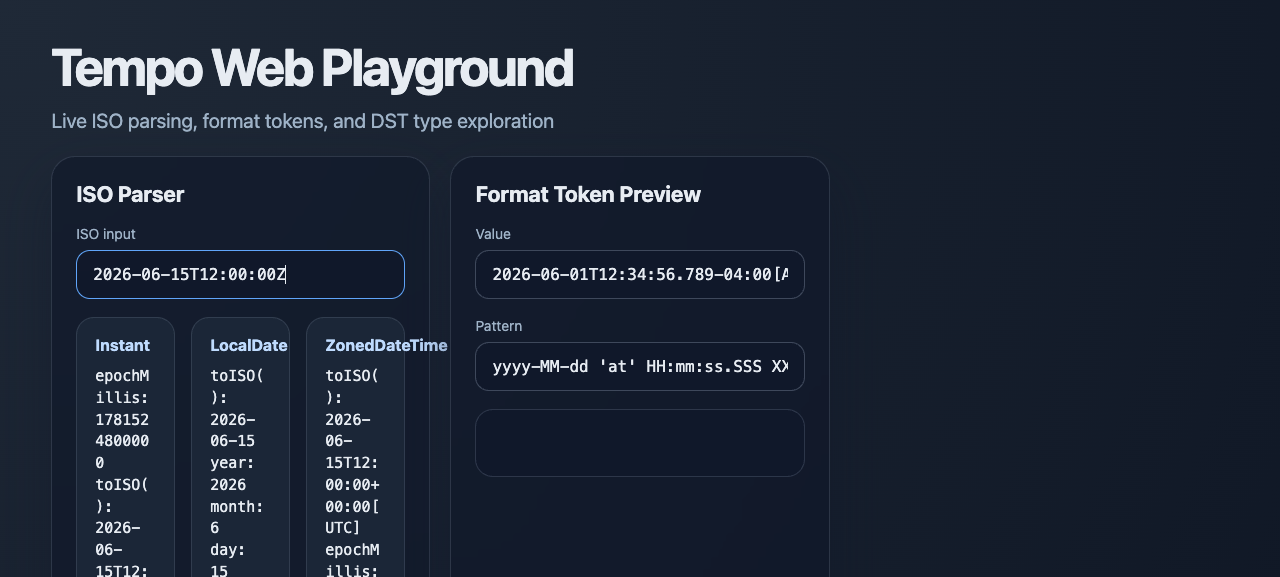
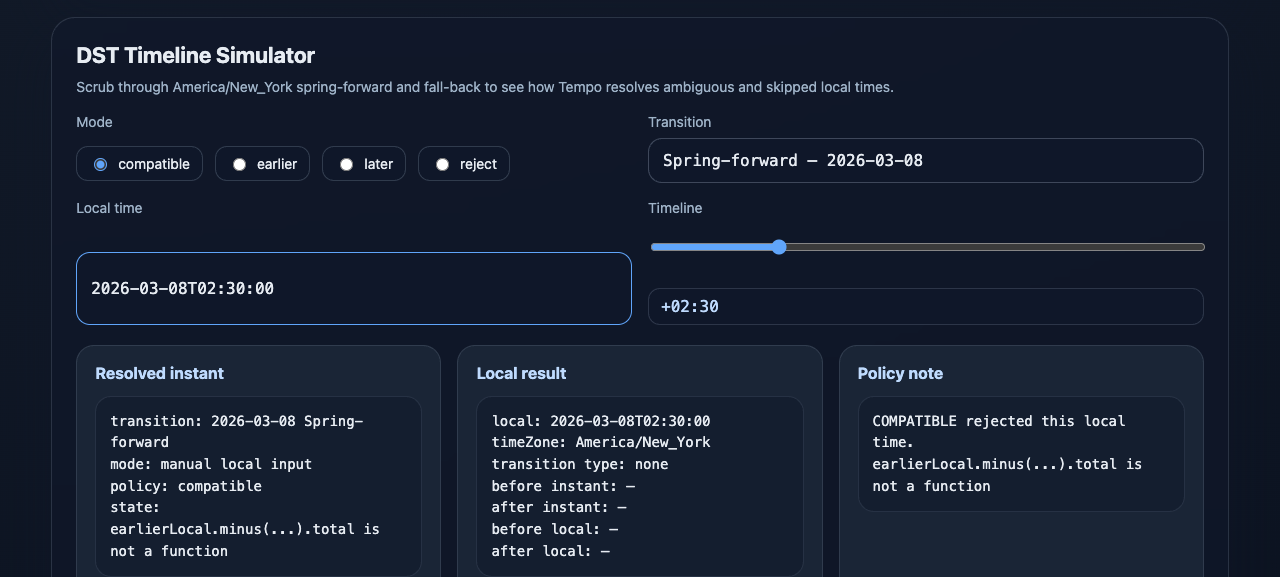
fix(demo): resolve interactive showcase scrutiny round-2 defects

diff --git a/demo/src/dst-simulator.ts b/demo/src/dst-simulator.ts
@@ -64,9 +64,11 @@ function resolveWithPolicy(local: LocalDateTime, policy: Disambiguation) {
     return { resolved: earlier, earlier, later };
   }
 
-  const earlierLocalShift = earlier.toLocalDateTime().minus(local).total('minute');
-  const laterLocalShift = later.toLocalDateTime().minus(local).total('minute');
-  const isLocalShiftForward = laterLocalShift > 0 && earlierLocalShift < 0;
+  const earlierLocal = earlier.toLocalDateTime();
+  const laterLocal = later.toLocalDateTime();
+  const earlierShift = earlierLocal.minus(local).total('minute');
+  const laterShift = laterLocal.minus(local).total('minute');
+  const isLocalShiftForward = laterShift > 0 && earlierShift < 0;
 
   if (policy === 'earlier') {
     return { resolved: earlier, earlier, later };
@@ -78,6 +80,47 @@ function resolveWithPolicy(local: LocalDateTime, policy: Disambiguation) {
 
   const compatible = isLocalShiftForward ? later : earlier;
   return { resolved: compatible, earlier, later };
+}
+
+function resolveTransitionBoundaries(local: LocalDateTime, policy: Disambiguation) {
+  const earlier = ZonedDateTime.fromLocal(local, 'America/New_York', { disambiguation: 'earlier' });
+  const later = ZonedDateTime.fromLocal(local, 'America/New_York', { disambiguation: 'later' });
+
+  if (!earlier || !later || earlier.epochMillis === later.epochMillis) {
+    return {
+      instantNumber: null,
+      beforeInstant: null,
+      afterInstant: null,
+      beforeLocal: null,
+      afterLocal: null,
+      error: null,
+    };
+  }
+
+  const earlierLocal = earlier.toLocalDateTime();
+  const laterLocal = later.toLocalDateTime();
+  const before = earlierLocal.epochMillis < laterLocal.epochMillis ? earlier : later;
+  const after = earlierLocal.epochMillis < laterLocal.epochMillis ? later : earlier;
+  const beforeLocal = before.toLocalDateTime();
+  const afterLocal = after.toLocalDateTime();
+
+  let error: string | null = null;
+  try {
+    if (policy === 'reject') {
+      ZonedDateTime.fromLocal(local, 'America/New_York', { disambiguation: 'reject' });
+    }
+  } catch (err) {
+    error = err instanceof Error ? err.message : String(err);
+  }
+
+  return {
+    instantNumber: before.epochMillis,
+    beforeInstant: before.epochMillis,
+    afterInstant: after.epochMillis,
+    beforeLocal,
+    afterLocal,
+    error,
+  };
 }
 
 function render() {
@@ -108,12 +151,25 @@ function render() {
   let earlier: ZonedDateTime | null = null;
   let later: ZonedDateTime | null = null;
   let error: string | null = null;
+  let instantNumber: number | null = null;
+  let beforeInstant: number | null = null;
+  let afterInstant: number | null = null;
+  let beforeLocal: LocalDateTime | null = null;
+  let afterLocal: LocalDateTime | null = null;
 
   try {
     const resolution = resolveWithPolicy(local, policy);
     resolved = resolution.resolved;
     earlier = resolution.earlier;
     later = resolution.later;
+
+    const boundaries = resolveTransitionBoundaries(local, policy);
+    instantNumber = boundaries.instantNumber;
+    beforeInstant = boundaries.beforeInstant;
+    afterInstant = boundaries.afterInstant;
+    beforeLocal = boundaries.beforeLocal;
+    afterLocal = boundaries.afterLocal;
+    error = boundaries.error;
   } catch (err) {
     error = err instanceof Error ? err.message : String(err);
   }

diff --git a/docs/CODEMOD.md b/docs/CODEMOD.md
@@ -1,0 +1,77 @@
+# Tempo Codemod
+
+The Tempo codemod rewrites Moment.js and moment-timezone usage into idiomatic Tempo code or `@chloevpin/tempo/compat/moment` adapter calls. Use it to automate the first, mechanical steps of migration while reviewing type-separation and parser changes by hand.
+
+## Install
+
+Tempo ships the codemod CLI with the main package. You do not need a separate install:
+
+```sh
+node tools/codemod/bin.js --help
+```
+
+Because the codemod transforms source files in place, treat it like any other migration tool: run it on a clean git checkout, review the diff, and commit separately.
+
+## Usage
+
+```sh
+node tools/codemod/bin.js <path>
+node tools/codemod/bin.js --dry-run src/
+```
+
+### Flags
+
+| Flag | Behavior |
+| --- | --- |
+| `<path>` | File or directory to transform. |
+| `--dry-run` | Print transformed files without writing to disk. |
+| `--help` | Print the usage message. |
+
+When `<path>` is a directory, the codemod walks only files with `.js`, `.jsx`, `.ts`, `.tsx`, `.mjs`, and `.cjs` extensions. It skips `.git`, `node_modules`, `dist`, and `coverage` automatically.
+
+The CLI prints summary counts after each target:
+
+```text
+transformed /Users/you/project/src/calendar.ts
+processed 1, transformed 1
+```
+
+## Supported transforms
+
+The codemod applies two passes, in order:
+
+1. **Import rewrite**: replaces default `import moment from 'moment'` with `import { moment } from '@chloevpin/tempo/compat/moment'`; rewrites `require('moment')` to `require('@chloevpin/tempo/compat/moment')` and preserves aliases such as `import m from 'moment'`.
+2. **Call rewrite**: rewrites common Moment call chains to Tempo core or adapter syntax. Supported methods today include `.format()`, `.add()`, `.subtract()`, `.diff()`, and `.utc()`.
+
+A full Moment migration still requires manual review for type selection (`Instant`, `LocalDate`, `ZonedDateTime`, etc.), strict ISO parsing, DST disambiguation, and token changes. The codemod removes the mechanical `moment` dependency and gives you executable Tempo-shaped code to finish by hand.
+
+### Examples
+
+```js
+// Before
+import moment from 'moment';
+
+moment('2026-06-01').format('YYYY-MM-DD');
+moment('2026-01-31').add(1, 'month').format('YYYY-MM-DD');
+moment('2026-06-01 10:00').toISOString();
+moment().utc().format();
+```
+
+```js
+// After codemod
+import { format } from '@chloevpin/tempo/format';
+import { LocalDate, LocalDateTime, ZonedDateTime } from '@chloevpin/tempo';
+
+format(LocalDate.parse('2026-06-01'), 'yyyy-MM-dd');
+format(LocalDate.parse('2026-01-31').plus({ months: 1 }), 'yyyy-MM-dd');
+format(LocalDateTime.parse('2026-06-01T10:00:00'), "yyyy-MM-dd HH:mm:ss 'Z'");
+ZonedDateTime.now('UTC').format("yyyy-MM-dd HH:mm:ss 'Z'");
+```
+
+For a guided migration checklist, see [docs/MIGRATION.md](MIGRATION.md).
+
+## Tips
+
+- Run the codemod with `--dry-run` first and inspect the full transformed content before writing changes.
+- After rewriting imports, run `npm install @chloevpin/tempo` and remove `moment` and `moment-timezone` if they are no longer needed.
+- Treat `.diff()` rewrites carefully: Tempo's `until` direction is `other - value`; compat preserves Moment's `this - other`, but native Tempo requires explicit direction review.

diff --git a/README.md b/README.md
@@ -69,9 +69,9 @@ Run `npm run size` to verify the package-size gates on your machine.
 | Separate types | no | no | no | yes |
 | Immutable API | no | yes | no | yes |
 | Strict ISO default | no | no | no | yes |
-| Month-end safety | no | yes | no | yes |
+| Month-end safety | no | yes | yes | yes |
 | DST policy control | no | no | no | yes |
-| Zero runtime deps | n/a | yes | no | yes |
+| Zero runtime deps | n/a | yes | yes | yes |
 
 ## Playground
 
@@ -80,7 +80,7 @@ Run `npm run size` to verify the package-size gates on your machine.
 ![Web playground](assets/demo-playground.png)
 ![DST simulator](assets/demo-dst-simulator.png)
 
-See [docs/MIGRATION.md](docs/MIGRATION.md) for the codemod guide.
+See [docs/CODEMOD.md](docs/CODEMOD.md) for the codemod guide.
 
 ## Terminal showcase
 
@@ -100,7 +100,7 @@ Tempo is a clean break. The core API is Temporal-shaped, immutable, and strict. 
 4. Replace `moment.tz` with `ZonedDateTime`.
 5. Delete the adapter.
 
-See [docs/MIGRATION.md](docs/MIGRATION.md) for the codemod guide and full migration walkthrough, and [docs/WHY-TEMPO.md](docs/WHY-TEMPO.md) for the breakage guide.
+See [docs/CODEMOD.md](docs/CODEMOD.md) for the codemod guide and [docs/MIGRATION.md](docs/MIGRATION.md) for the full migration walkthrough, and [docs/WHY-TEMPO.md](docs/WHY-TEMPO.md) for the breakage guide.
 
 ## Develop and test
 
